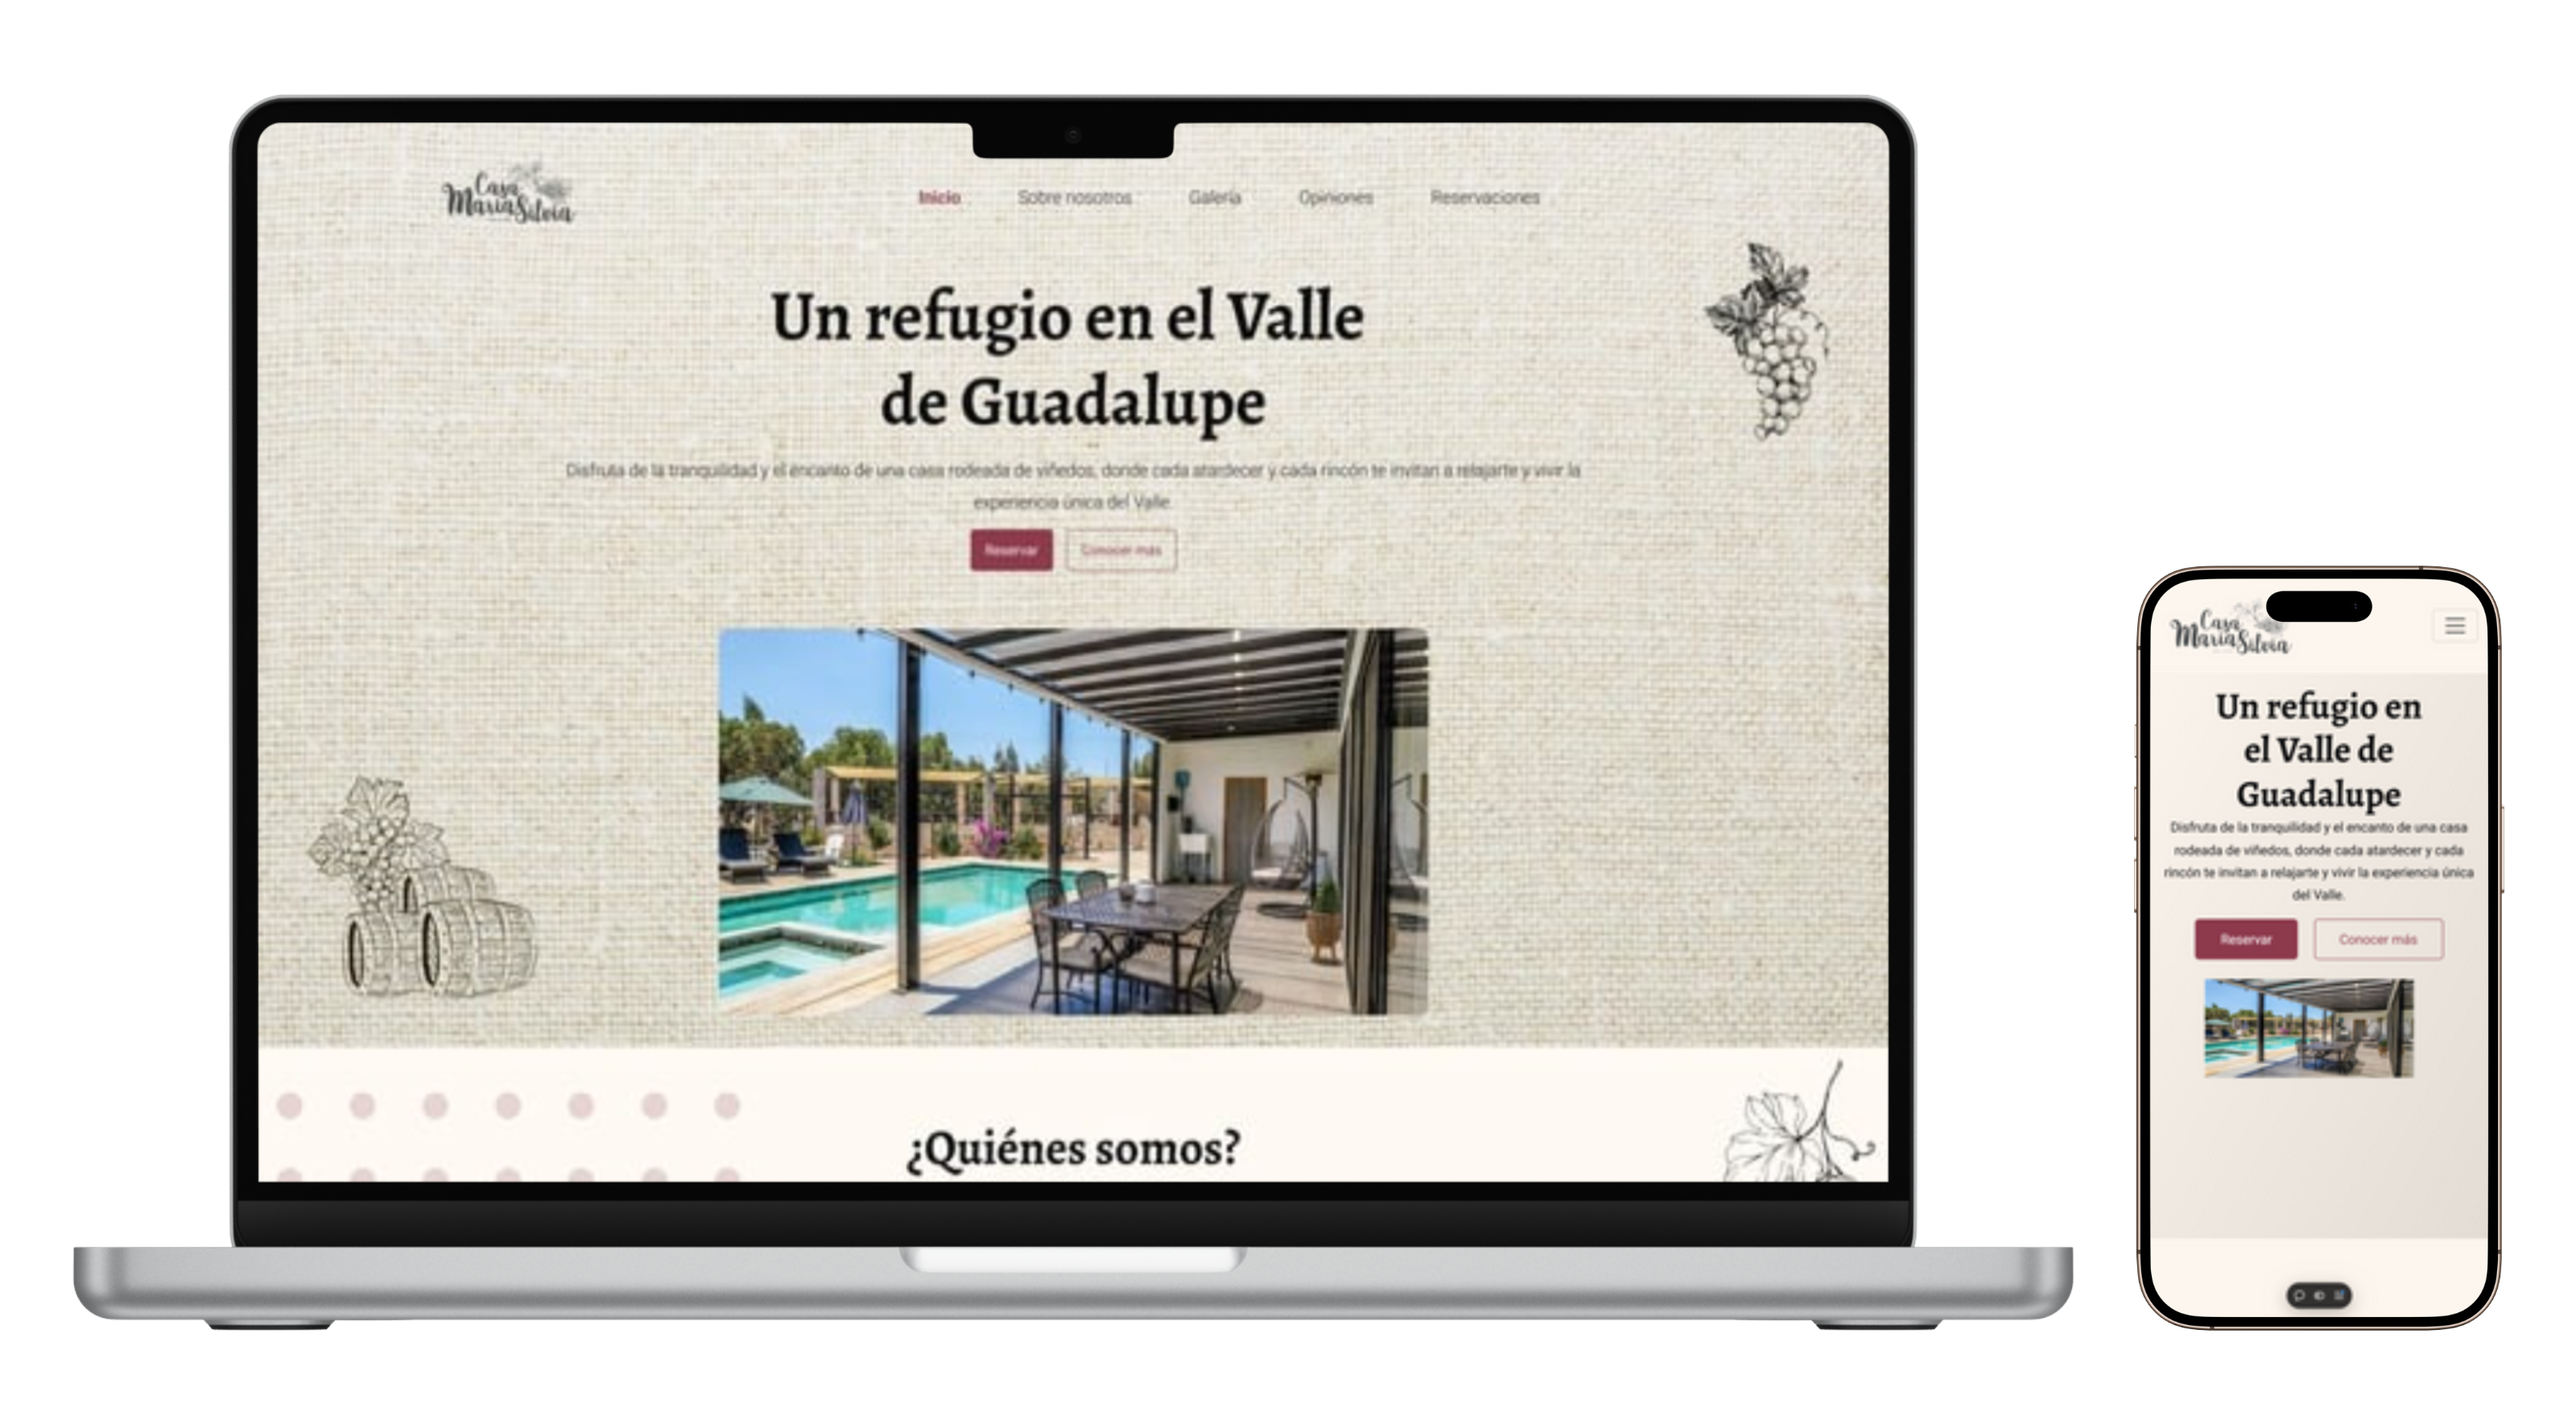
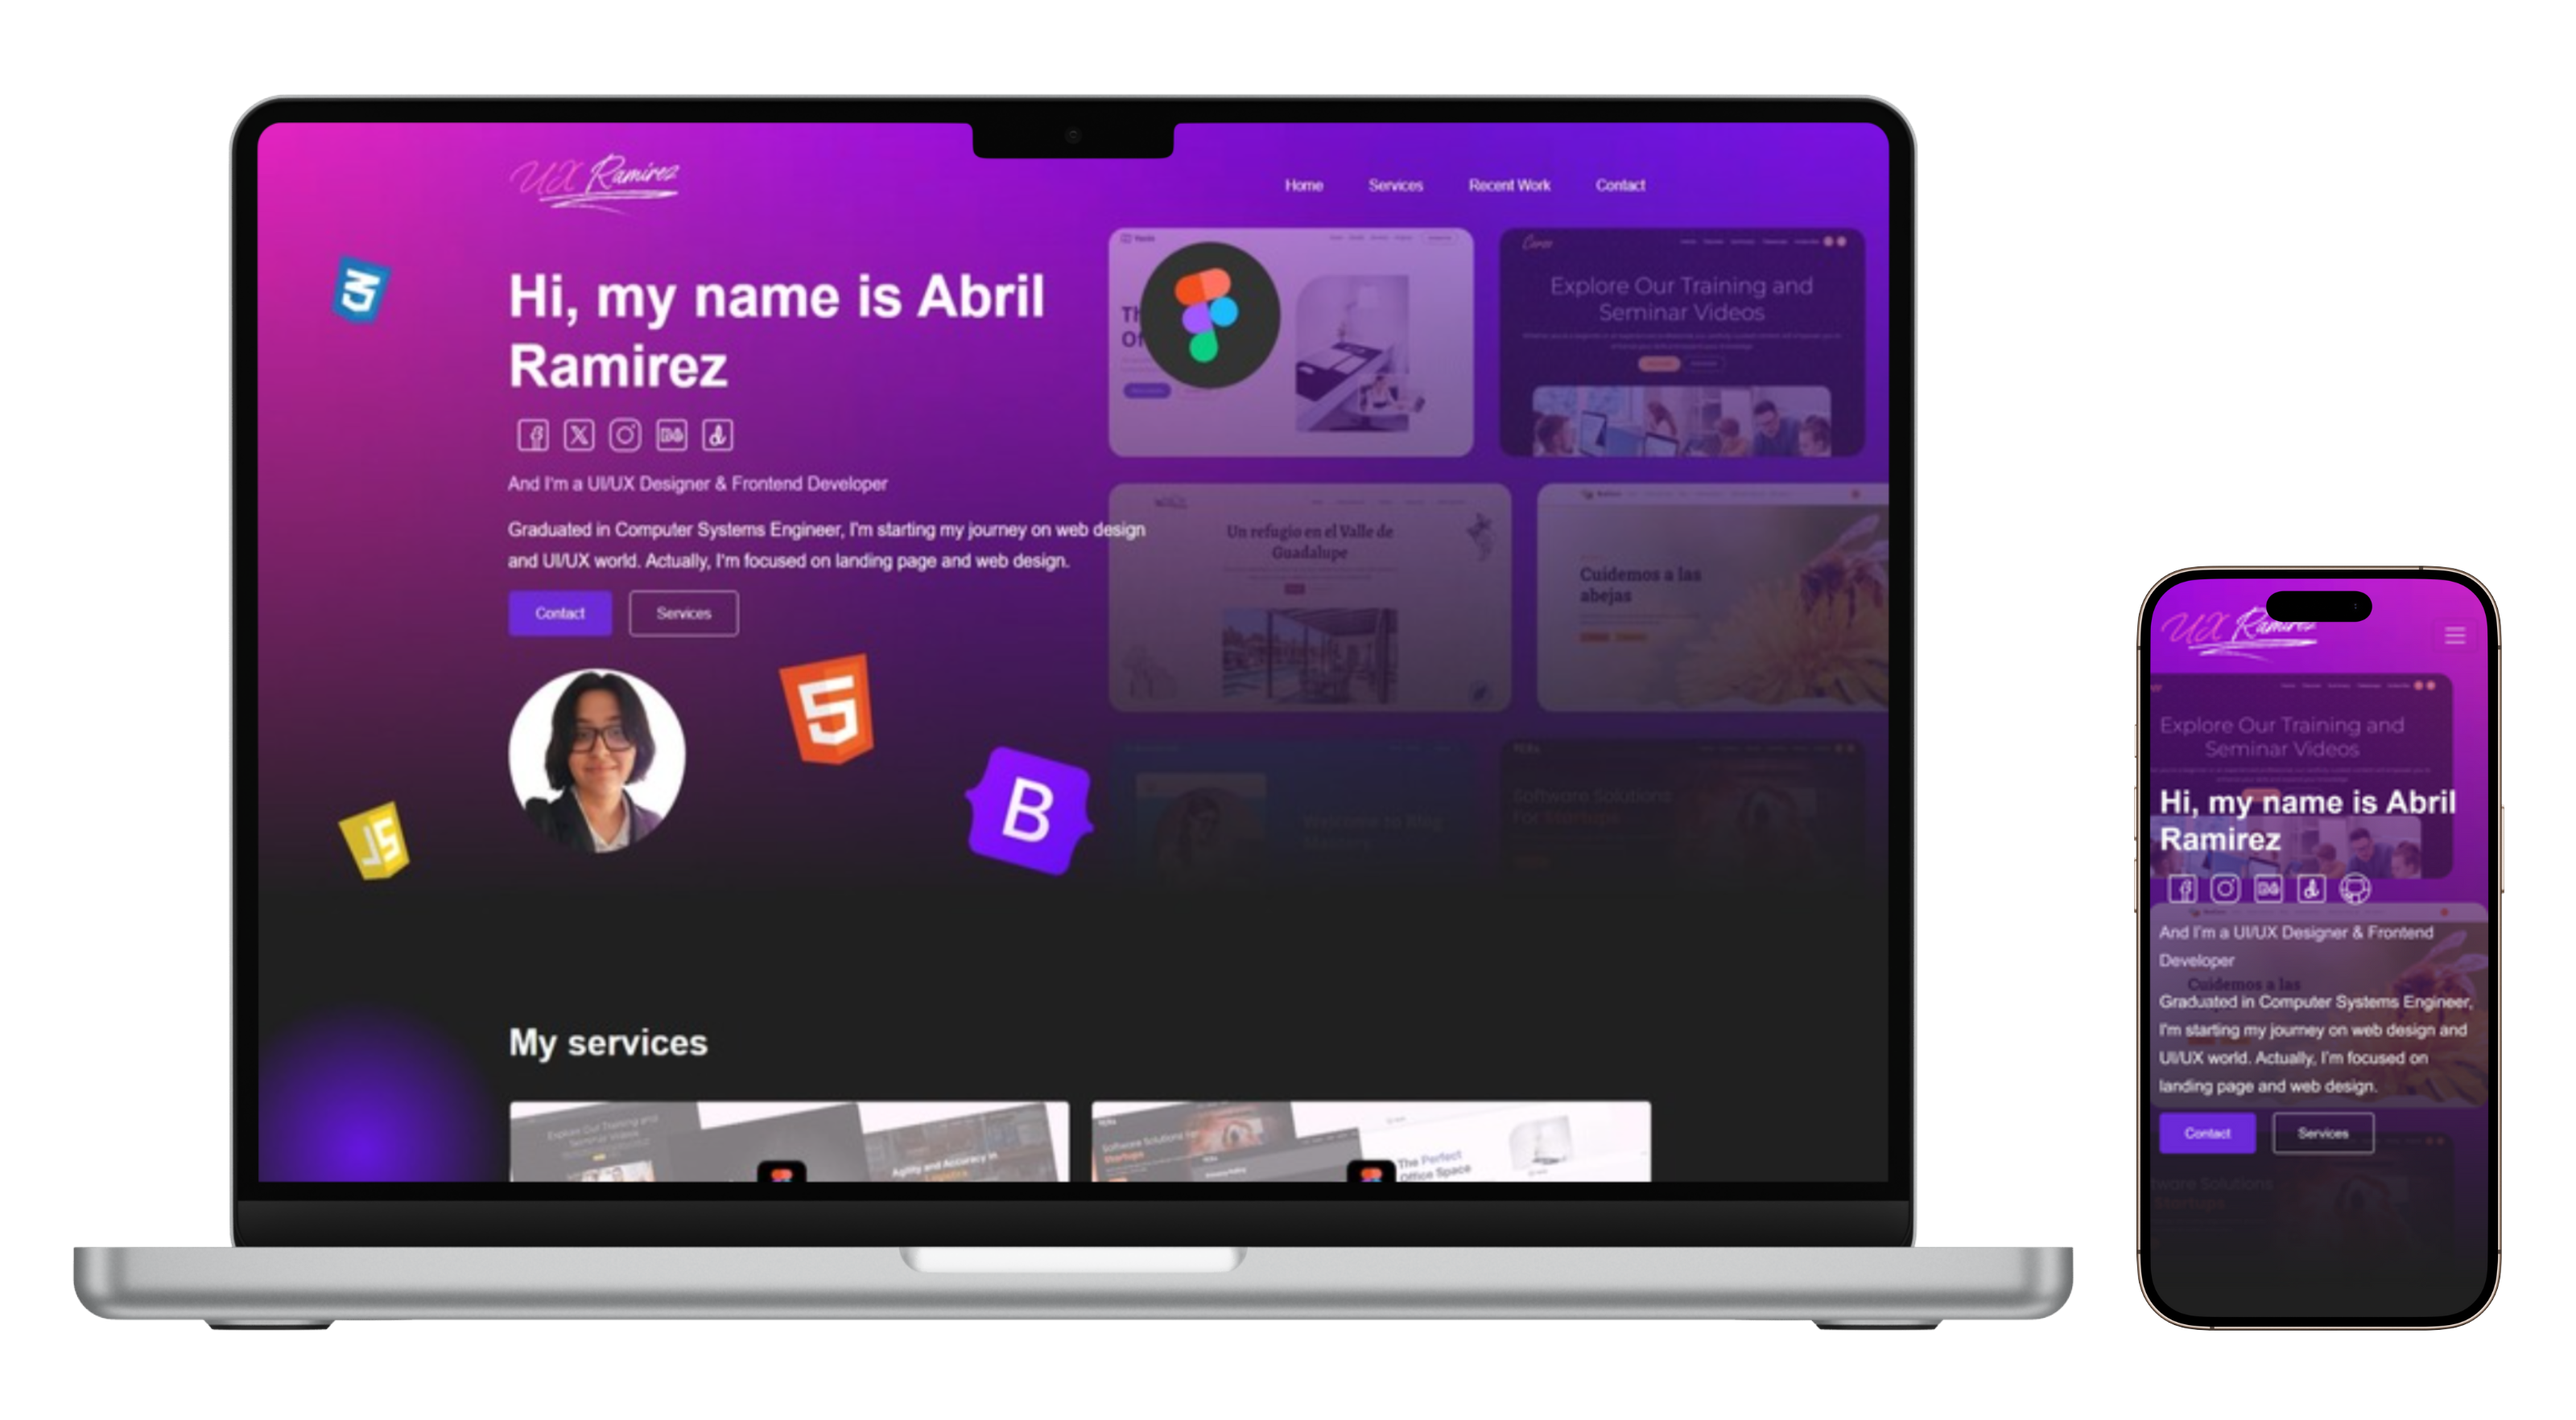
New project added!

diff --git a/index.html b/index.html
@@ -279,6 +279,18 @@
             <div class="card h-100">
               <img src="images/covers/project01.png" class="card-img-top" alt="Project 01">
               <div class="card-body">
+                <h5 class="card-title fw-bold">Fresh Designs Construction, LLC</h5>
+                <p class="card-text">From stunning home renovations to large-scale public works, we deliver licensed, top-quality construction in California and Las Vegas.</p>
+                <div>
+                  <a href="https://freshdesignsconstruction.netlify.app/" class="btn btn-outline-primary btn-md text-white">Visit Website</a>
+                </div>
+              </div>
+            </div>
+          </div>
+          <div class="col">
+            <div class="card h-100">
+              <img src="images/covers/project02.png" class="card-img-top" alt="Project 02">
+              <div class="card-body">
                 <h5 class="card-title fw-bold">UX Ramirez Website</h5>
                 <p class="card-text">Landing Page where you'll fin information about my Freelance Services and contact info.</p>
                 <div>
@@ -289,24 +301,12 @@
           </div>
           <div class="col">
             <div class="card h-100">
-              <img src="images/covers/project02.png" class="card-img-top" alt="Project 02">
+              <img src="images/covers/project03.png" class="card-img-top" alt="Project 03">
               <div class="card-body">
                 <h5 class="card-title fw-bold">Casa María Silvia</h5>
                 <p class="card-text">Landing Page for a vacation house rental, where you will find details about the house and reservations info.</p>
                 <div>
                   <a href="https://casamariasilvia.vercel.app/" class="btn btn-outline-primary btn-md text-white">Visit Website</a>
-                </div>
-              </div>
-            </div>
-          </div>
-          <div class="col">
-            <div class="card h-100">
-              <img src="images/covers/project03.png" class="card-img-top" alt="Project 03">
-              <div class="card-body">
-                <h5 class="card-title fw-bold">BeeCare [Redesign]</h5>
-                <p class="card-text">This Website aims to encourage the community about the importance of bees and why we should take care of them.</p>
-                <div>
-                  <a href="https://glassesfriends.github.io/BeeCare_website_redesign/index.html" class="btn btn-outline-primary btn-md text-white">Visit Website</a>
                 </div>
               </div>
             </div>
